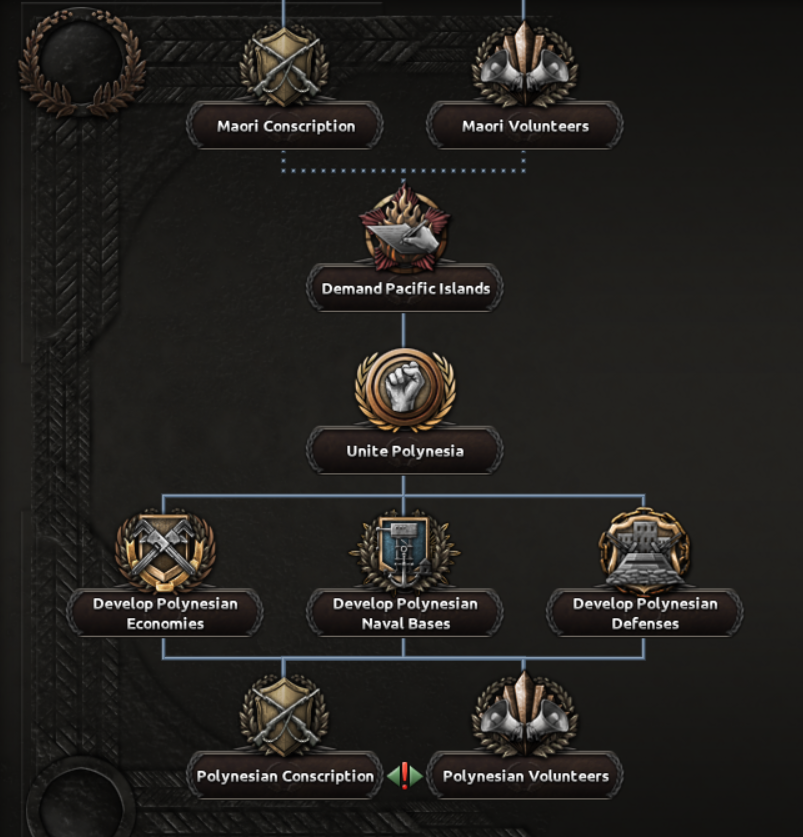
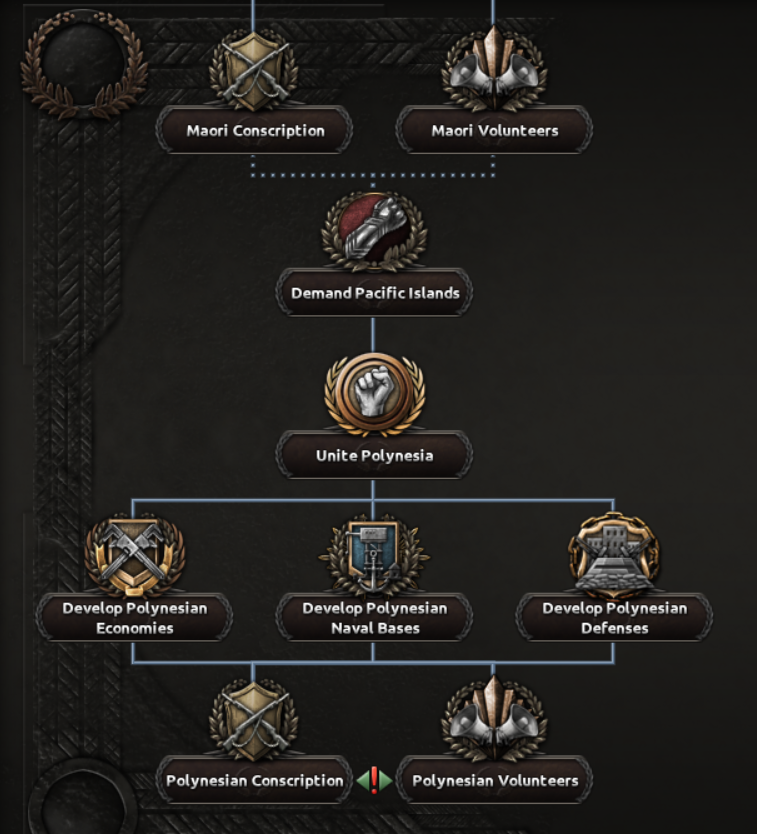
add images

diff --git a/workshop_description.md b/workshop_description.md
@@ -16,7 +16,6 @@ Some focuses in the shared part of the focus tree have also been changed:
   [*]Maori Volunteers no longer unlocks the decisions to demand islands, but has a better division template that is unlocked and gives stability and war support buffs
 [/list]
 
-TODO: update the image
 [img]https://raw.githubusercontent.com/Destructor-Ben/BetterNZ/release/workshop_polynesia_focuses.png[/img]
 
 [h2]Tweaked Political Section of Focus Tree[/h2]
@@ -58,7 +57,7 @@ New cities:
   [*]New Plymouth - 1 VP
 [/list]
 
-TODO: an image
+[img]https://raw.githubusercontent.com/Destructor-Ben/BetterNZ/release/workshop_cities.png[/img]
 
 [h1]Links[/h1]
 [url=https://github.com/Destructor-Ben/BetterNZ]Github Repository[/url]
